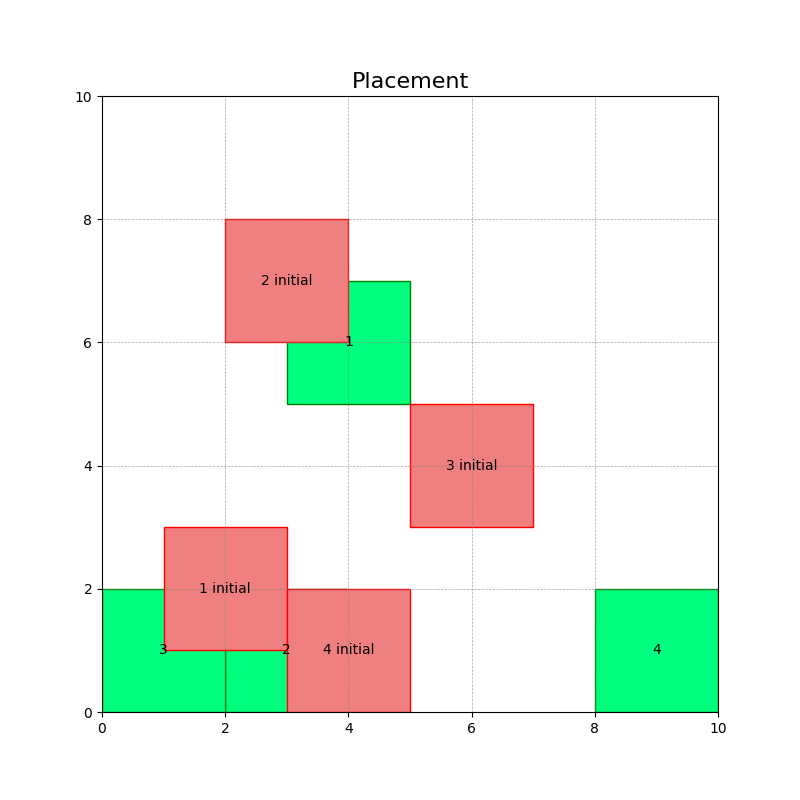
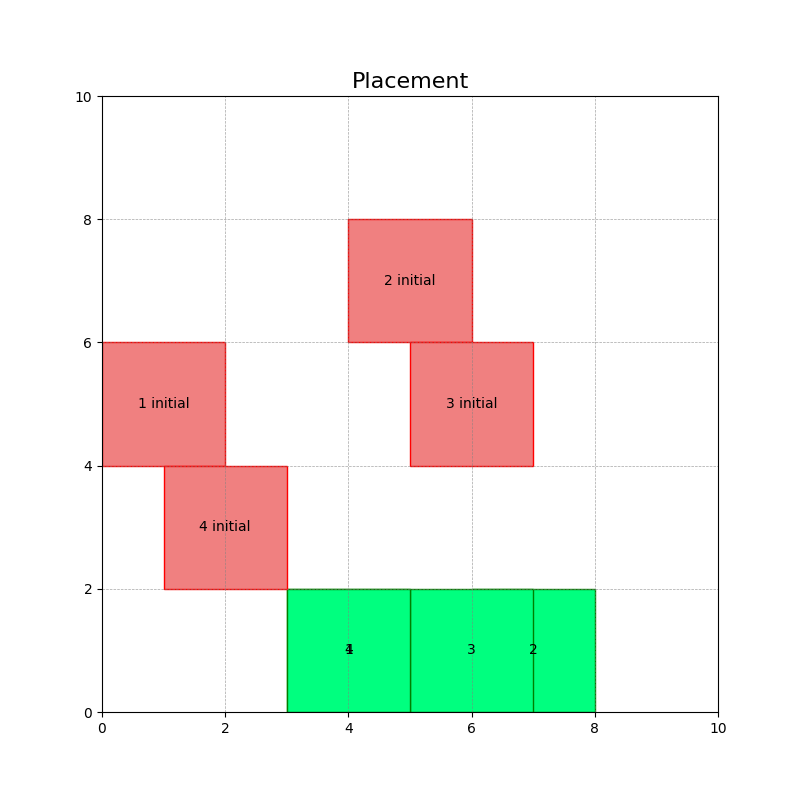
tested rl-baselines3-zoo

Changed region(s): [[0.125, 0.7188, 0.9062, 0.9062], [0.125, 0.25, 0.6875, 0.6875], [0.5, 0.5625, 0.6875, 0.6875]]

diff --git a/ml_exploration/object_placement.py b/ml_exploration/object_placement.py
@@ -110,14 +110,14 @@ class ComponentPlacementEnvironment(gym.Env):
 
         # Compute bounding box area
         x_pos = [pos[0] for pos in self.component_positions]
-        y_coords = [pos[1] for pos in self.component_positions]
-        bounding_box_area = (max(x_pos) - min(x_pos)) * (max(y_coords) - min(y_coords))
+        y_pos = [pos[1] for pos in self.component_positions]
+        bounding_box_area = (max(x_pos) - min(x_pos)) * (max(y_pos) - min(y_pos))
 
         # Check for overlap
         for i in range(self.components_total):
             for j in range(i + 1, self.components_total):
                 if self.check_overlap(self.component_positions[i], self.component_positions[j]):
-                    overlap_reward -= 1
+                    overlap_reward -= 0.2
 
         # Define reward as minimizing both distance and bounding box area
         distance_reward = 1 / (avg_distance + 1)
@@ -129,7 +129,7 @@ class ComponentPlacementEnvironment(gym.Env):
 
         # print(f"distance avg. : {avg_distance}")
         print(f"distance reward: {distance_reward}")
-        # print(f"area penalty: {area_reward}")
+        print(f"area penalty: {area_reward}")
         print(f"overlap reward: {overlap_reward}")
         print(f"reward total: {reward}")
 
@@ -188,12 +188,12 @@ def lr_schedule(progress_remaining):
 
 
 def object_placement():
-    max_steps = 10000
+    max_steps = 1000
     grid_size = 10
     component_size = (2, 2)  # (576, 400)
     components_total = 4
     time_steps = 10000
-    train = True
+    train = False
 
     models_dir = f"ml_exploration/models/PPO-{datetime.now().strftime('%Y-%m-%d_%H-%M-%S')}"
     log_dir = f"ml_exploration/logs/PPO-{datetime.now().strftime('%Y-%m-%d_%H-%M-%S')}"
@@ -202,7 +202,7 @@ def object_placement():
                                env_kwargs=dict(grid_size=grid_size, component_size=component_size,
                                                components_total=components_total, max_steps=max_steps))
 
-    model = PPO("MlpPolicy", env, verbose=1, device="cpu", tensorboard_log=log_dir, learning_rate=1e-3)
+    model = PPO("MlpPolicy", env, verbose=1, device="cpu", tensorboard_log=log_dir, learning_rate=1e-4)
 
     if train:
         # Folder structure
@@ -212,13 +212,13 @@ def object_placement():
         if not os.path.exists(log_dir):
             os.makedirs(log_dir)
 
-        for i in range(1, 101):
+        for i in range(1, 21):
             model.learn(total_timesteps=time_steps, reset_num_timesteps=False, tb_log_name="PPO")
             model.save(f"{models_dir}/{time_steps*i}")
 
+    #{models_dir}/200000
     #
-    # ml_exploration/models/PPO-2025-02-03_11-45-47/200000
-    trained_model = PPO.load(f"{models_dir}/1000000", env=env)
+    trained_model = PPO.load(f"ml_exploration/models/PPO-2025-02-04_11-12-22/200000", env=env)
 
     next_placements = env.reset()
     initial_placements = next_placements

diff --git a/custom_placement_algorithm/custom_placement_algorithm.py b/custom_placement_algorithm/custom_placement_algorithm.py
@@ -1,0 +1,84 @@
+import numpy as np
+import matplotlib.pyplot as plt
+import math
+
+class CustomPlacement:
+    def __init__(self, grid_size, component_size, components_total):
+        super(CustomPlacement, self).__init__()
+        self.component_positions = None
+        self.grid_size = grid_size
+        self.component_size = component_size
+        self.components_total = components_total
+        self.previous_distance = 0
+        self.place()
+
+    def plot_placement(self, plot_name):
+        # Plot config
+        fig, ax = plt.subplots(figsize=(8, 8))
+        ax.set_xlim(-self.grid_size, self.grid_size)
+        ax.set_ylim(-self.grid_size, self.grid_size)
+        ax.set_aspect('equal')
+        ax.set_title("Placement", fontsize=16)
+        ax.grid(color='gray', linestyle='--', linewidth=0.5, alpha=0.7)
+
+        # Place components
+        for i, (x, y) in enumerate(self.component_positions):
+            rect = plt.Rectangle((x, y), self.component_size[0], self.component_size[1], edgecolor='green',
+                                 facecolor='springgreen')
+            ax.add_patch(rect)
+
+            ax.text(x + self.component_size[0] / 2, y + self.component_size[1] / 2, f"{i + 1}",
+                    color="black", fontsize=10, ha='center', va='center')
+
+        plt.savefig(plot_name)
+
+
+    def place(self):
+        # Place components at random non-overlapping positions
+        self.component_positions = []
+
+        # Place components in 0,0
+        #for _ in range(self.components_total):
+        #    self.component_positions.append(np.array([0, 0]))
+        #self.component_positions = np.array(self.component_positions, dtype=np.int32)
+
+        n = 4
+        positions = self.generate_symmetric_grid(n)
+        for pos in positions:
+            self.component_positions.append(pos)
+        self.component_positions = np.array(self.component_positions, dtype=np.int32)
+
+        # Debug
+        self.plot_placement(plot_name="custom_placement_algorithm/ok_placement.png")
+        print(self.component_positions)
+
+
+    def generate_symmetric_grid(self, n):
+        positions = []
+
+        # Determine the number of rows and columns
+        cols = math.ceil(math.sqrt(n))  # Approximate square grid
+        rows = math.ceil(n / cols)
+        print(rows)
+        print(cols)
+
+        y_offset = (rows - 1) / 2
+
+        count = 0
+        for row in range(rows):
+            for col in range(-(cols // 2), (cols // 2) + 1):  # Symmetric range around 0
+                if count >= n:
+                    break
+
+                x = col
+                y = y_offset - row  # Inverted y to have (0,0) at center
+
+                # Add the point
+                positions.append((x, y))
+                count += 1
+
+        return positions
+
+
+
+

diff --git a/main.py b/main.py
@@ -13,18 +13,17 @@
 # If not, see <https://www.gnu.org/licenses/>.
 # ==================================================================================================================== #
 from ml_exploration.object_placement import object_placement
-
-
+from gymnasium.envs.registration import register
+from custom_placement_algorithm.custom_placement_algorithm import CustomPlacement
 # ================================================== Libraries =========================================================
 
 # ========================================== Set-up classes and constants ==============================================
 
 # ===================================================== Main ===========================================================
 
-
 def main():
-    object_placement()
-
+    #object_placement()
+    CustomPlacement(components_total=4, component_size=(1,1), grid_size=10)
 
 if __name__ == '__main__':
     main()
